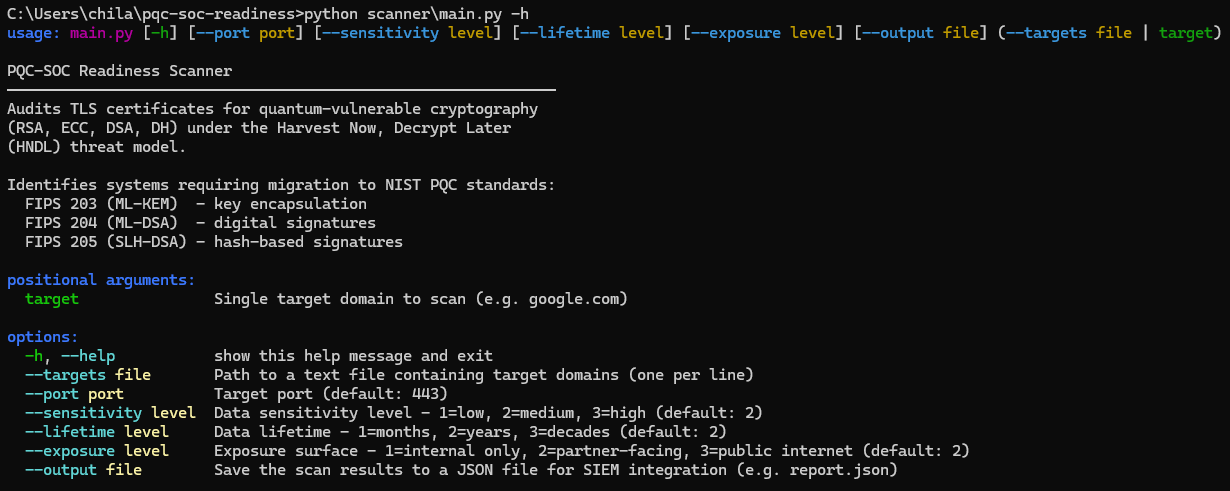
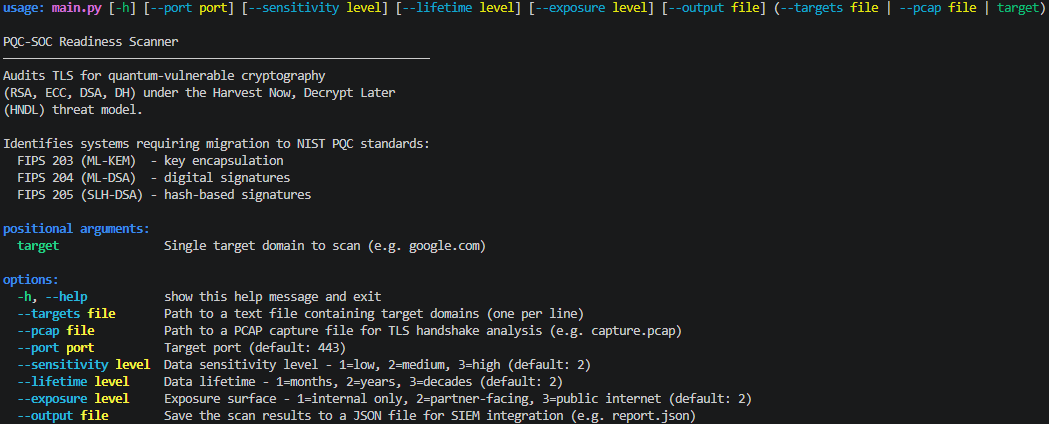
assets: update demo gif and help screenshot

Changed region(s): [[0.0, 0.0, 1.0, 1.0]]

diff --git a/scanner/main.py b/scanner/main.py
@@ -183,7 +183,7 @@ if __name__ == "__main__":
         description=(
             "PQC-SOC Readiness Scanner\n"
         "─────────────────────────────────────────────────────────────\n"
-        "Audits TLS certificates for quantum-vulnerable cryptography\n"
+        "Audits TLS for quantum-vulnerable cryptography\n"
         "(RSA, ECC, DSA, DH) under the Harvest Now, Decrypt Later\n"
         "(HNDL) threat model.\n\n"
         "Identifies systems requiring migration to NIST PQC standards:\n"